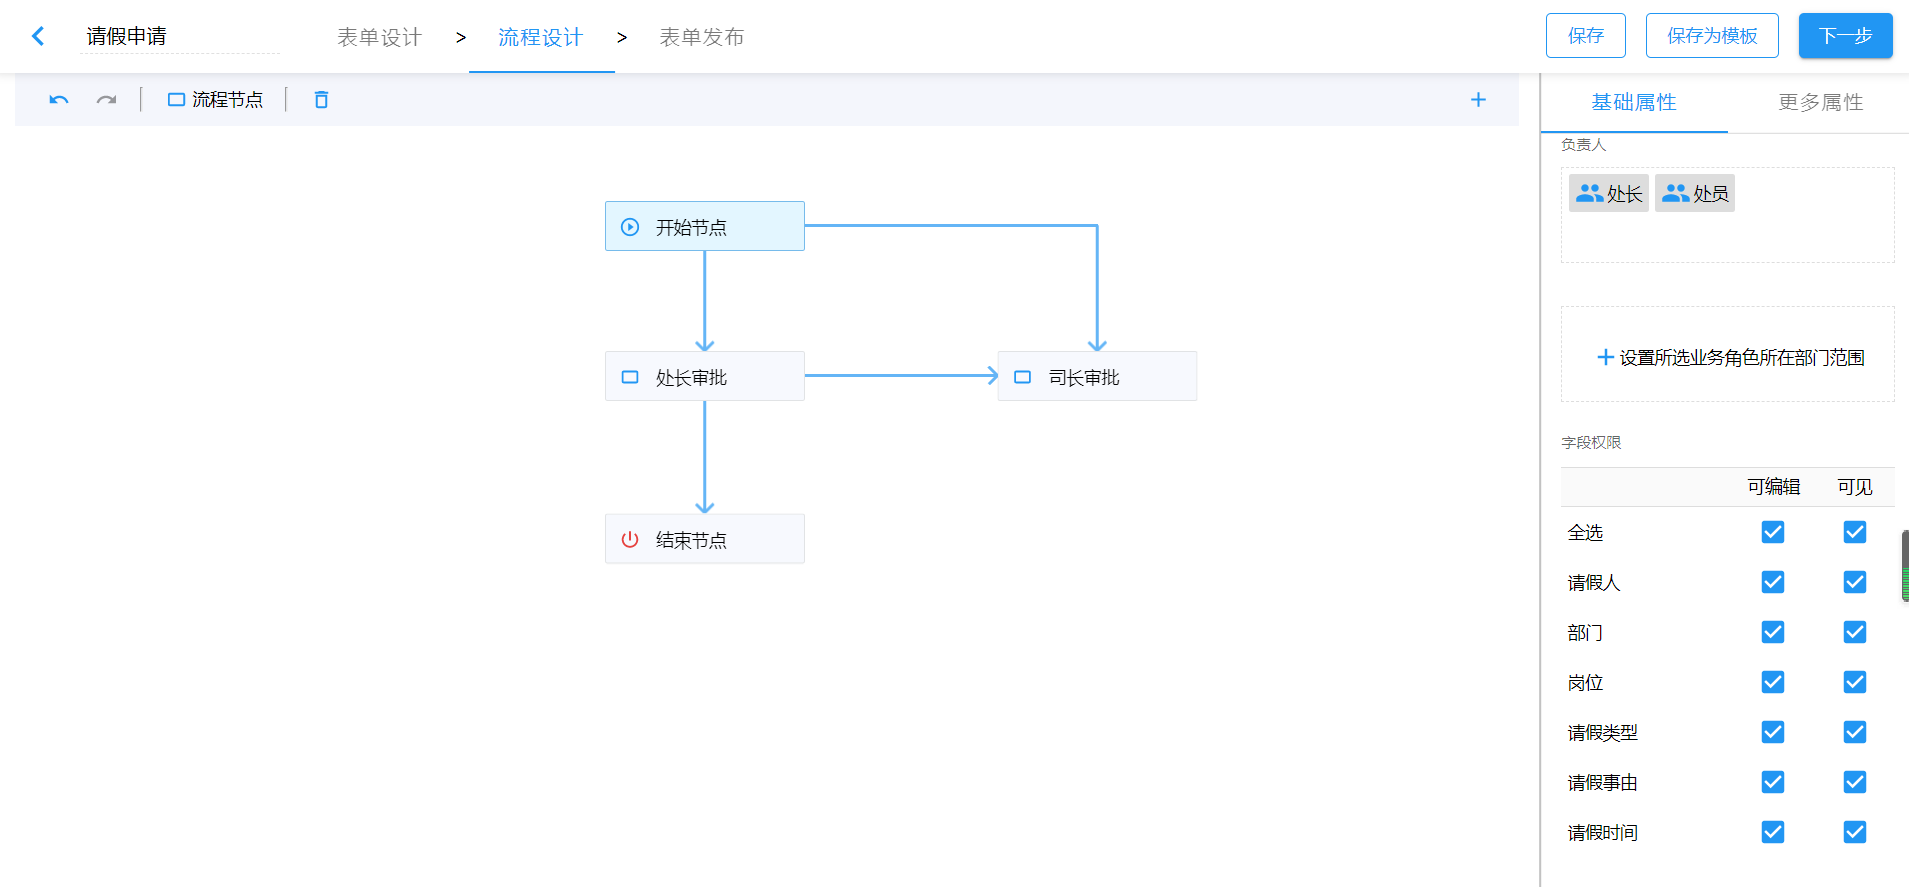
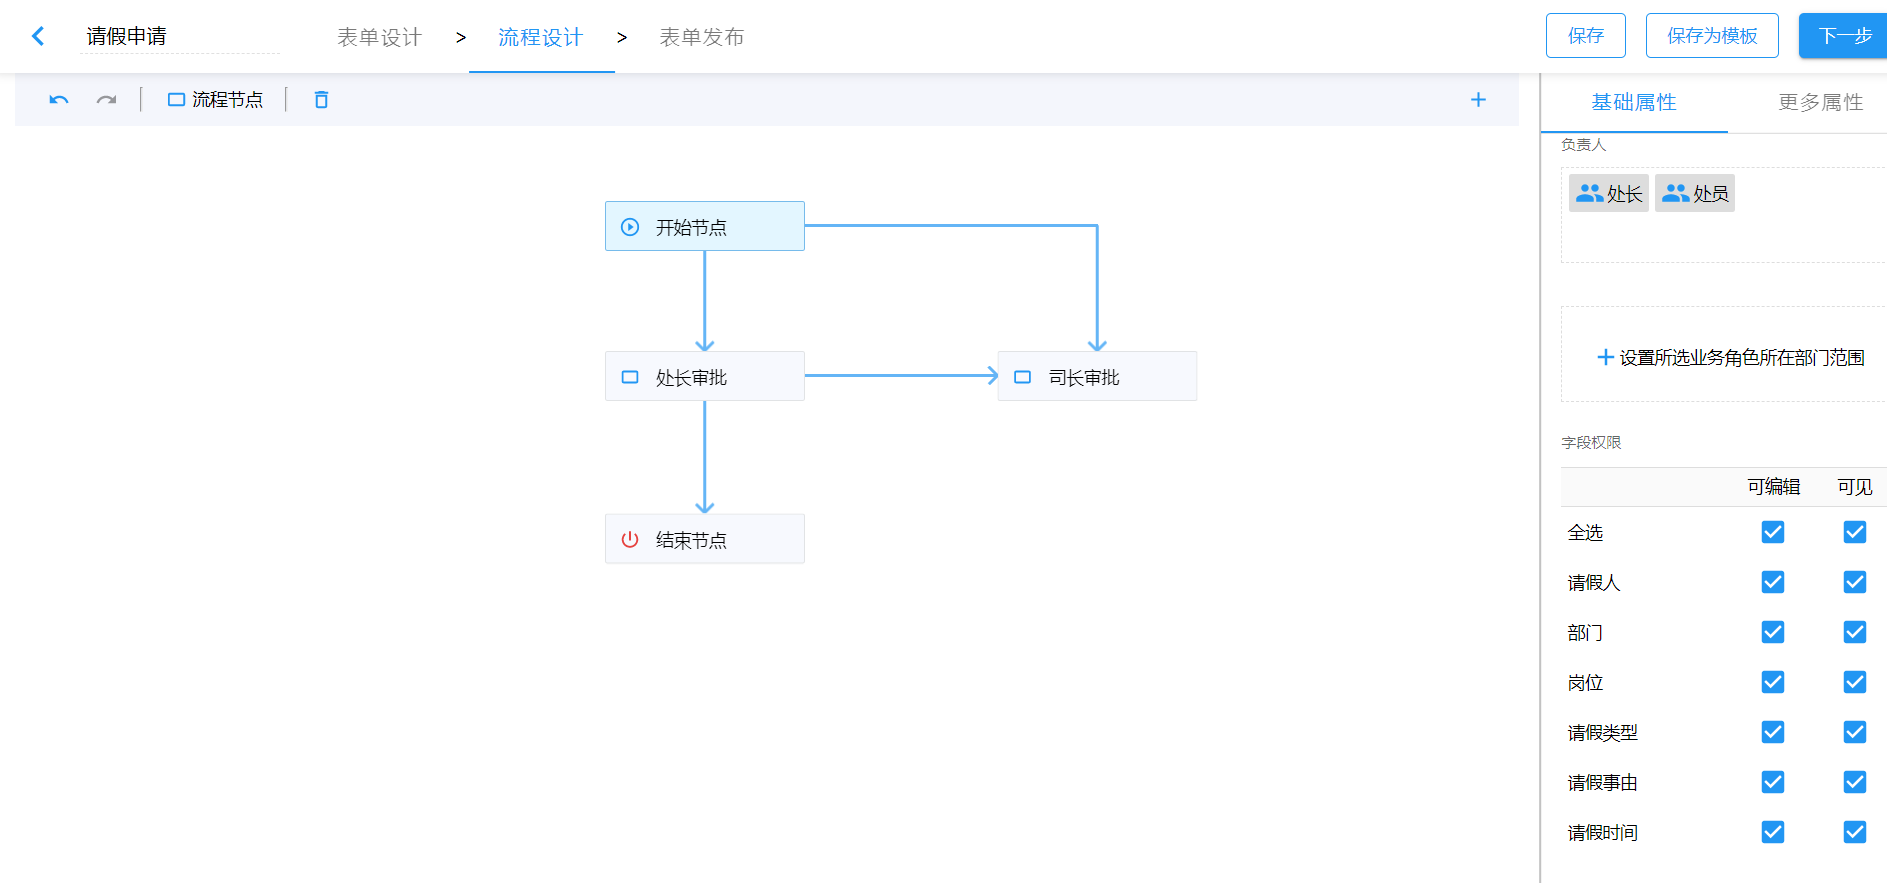
chore(flow): 替换流程部分不规范的图片

diff --git a/flow/flow-apply.md b/flow/flow-apply.md
@@ -6,15 +6,15 @@
 
 - 起草节点的负责人有草稿、待办、已办和查询列表权限
 
-  ![列表权限/所有](./images/list-authy_all.jpg)
+  ![列表权限/所有](./images/list-authy_all.png)
 
 - 除起草节点外的流程节点负责人有待办、已办和查询列表权限
 
-  ![列表权限/无草稿](./images/list-authy_no_draft.jpg)
+  ![列表权限/无草稿](./images/list-authy_no_draft.png)
 
 - 表单发布时设置的`数据查看人员`只有查询列表权限
 
-  ![查询列表](./images/search-list.jpg)
+  ![查询列表](./images/search-list.png)
 
 ## 数据填报
 

diff --git a/flow/README.md b/flow/README.md
@@ -14,7 +14,7 @@
 
 通过拖拽添加流程节点，选中节点，可修改节点名称。
 
-![添加节点](./images/flow-designer_node.png)
+![添加节点](./images/flow-designer_node.gif)
 
 ### 设置路由
 
